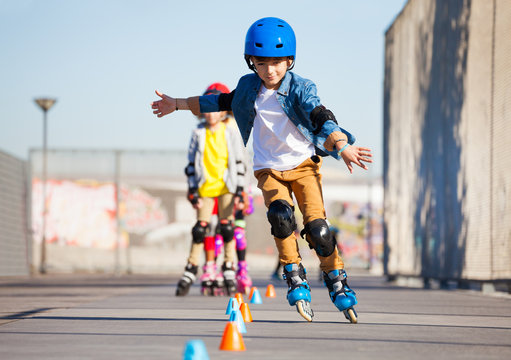
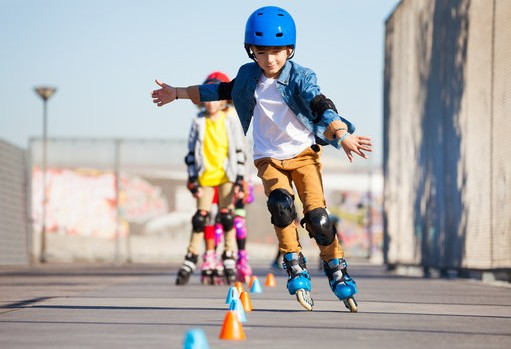
Update the UI in Programs and Events sections.

diff --git a/src/components/home/Achievements.jsx b/src/components/home/Achievements.jsx
@@ -43,7 +43,7 @@ const Achievements = ({ pageView = false }) => {
         {pageView && error && <ErrorState message="Couldn't load achievements right now." />}
         {displayedStats.length > 0 && (
           <>
-            <div className="grid sm:grid-cols-2 lg:grid-cols-4 bg-[#100f0b] border-y border-parchment-100/5 py-7 sm:py-10">
+            <div className="grid sm:grid-cols-2 lg:grid-cols-4 bg-[#100f0b] border-y border-parchment-100/5 py-7 sm:py-4">
               {displayedStats.map((s) => (
                 <AnimatedCounter
                   key={s.id}
